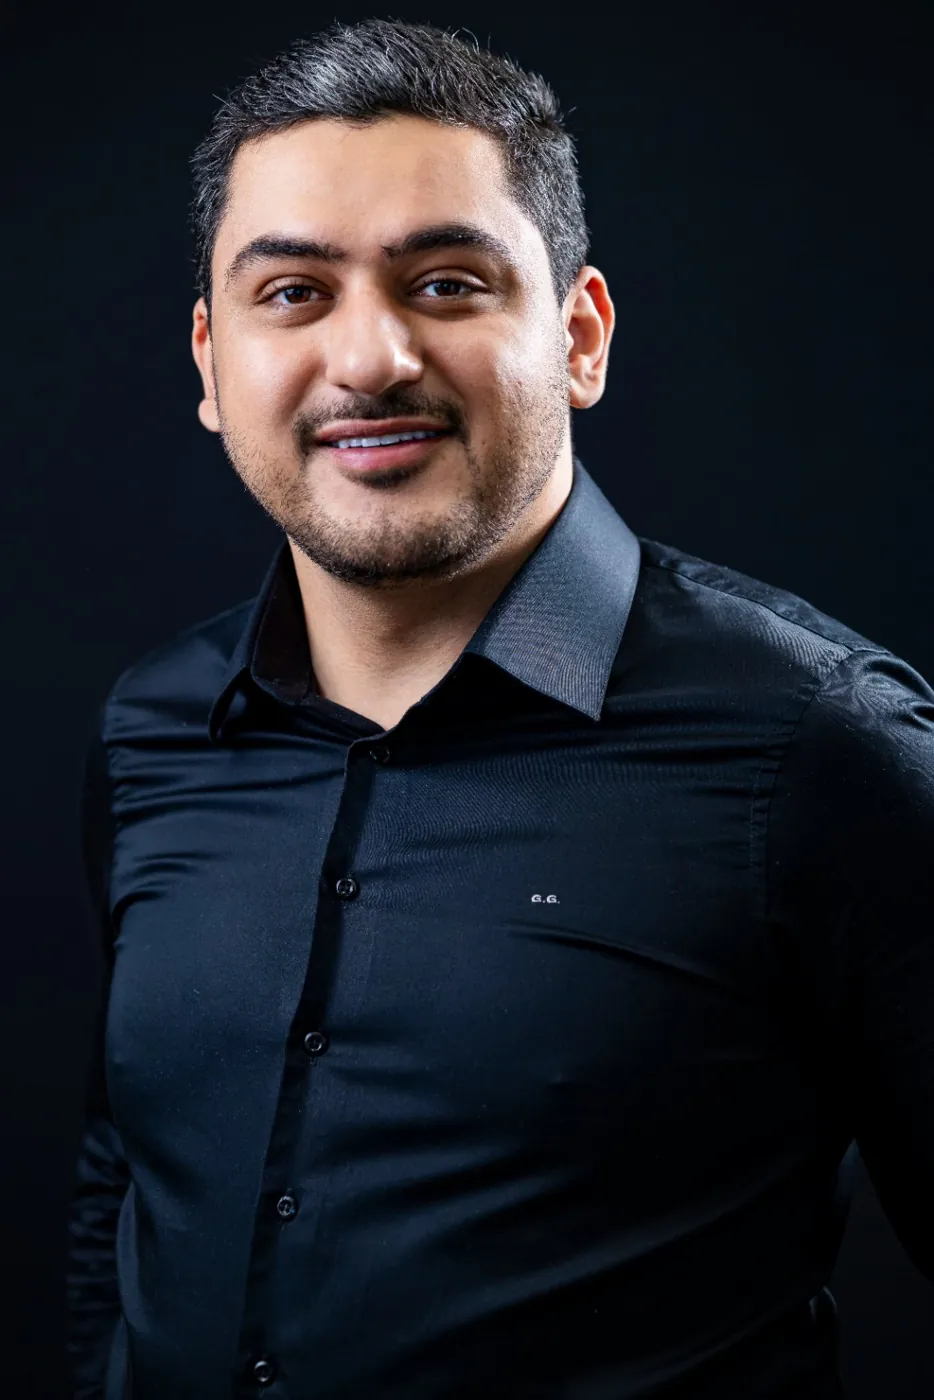
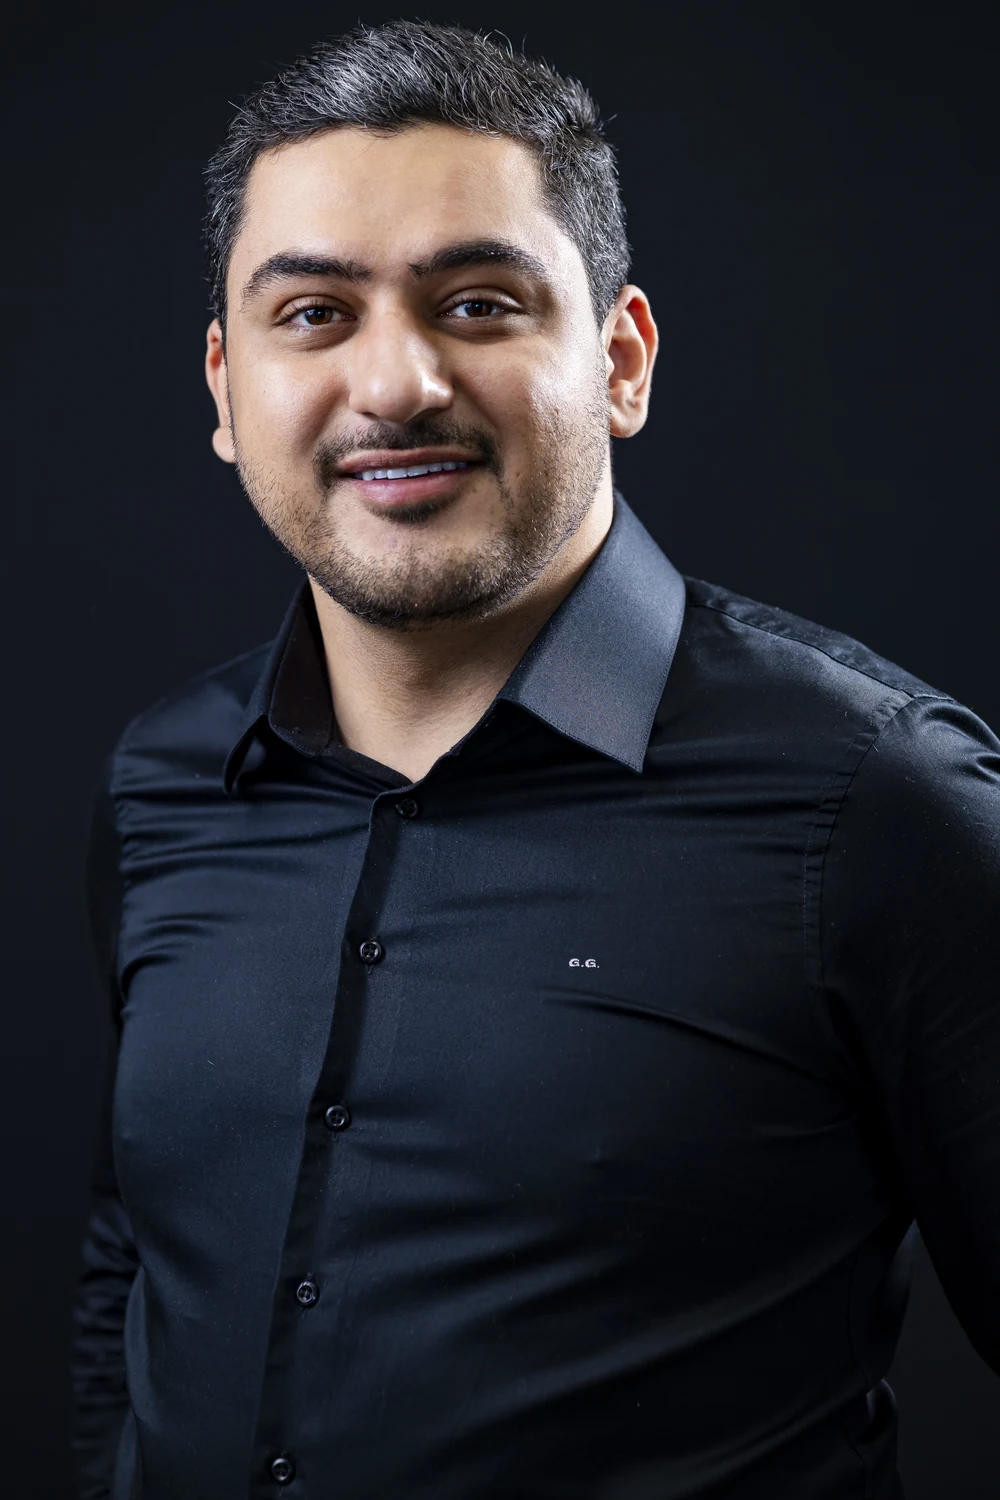
fix: fotos do site a partir dos originais do ensaio (capa em 900/1600 px)

diff --git a/index.html b/index.html
@@ -269,7 +269,7 @@ a.canal:hover{border-color:var(--cobre-claro);background:rgba(242,230,216,.05)}
 
 <section class="hero escuro">
   <div class="hero-foto">
-    <img src="img/PJF_2780.webp" alt="Dr. Gabriel Germano, endodontista, de braços cruzados" width="1067" height="1600" fetchpriority="high">
+    <img src="img/PJF_2780-1600.webp" srcset="img/PJF_2780-900.webp 900w, img/PJF_2780-1600.webp 1600w" sizes="(max-width: 860px) 100vw, 54vw" alt="Dr. Gabriel Germano, endodontista, de braços cruzados" width="1600" height="2400" fetchpriority="high">
   </div>
   <div class="wrap hero-texto">
     <p class="eyebrow">Endodelivery · Para clínicas parceiras</p>
@@ -424,7 +424,7 @@ a.canal:hover{border-color:var(--cobre-claro);background:rgba(242,230,216,.05)}
 
 <section class="sec bege" id="parceria">
   <div class="wrap duas">
-    <div class="foto-retrato rev"><img src="img/PJF_2485.webp" alt="Dr. Gabriel Germano sorrindo, sentado à mesa do consultório" loading="lazy" width="934" height="1400"></div>
+    <div class="foto-retrato rev"><img src="img/PJF_2485.webp" alt="Dr. Gabriel Germano sorrindo, sentado à mesa do consultório" loading="lazy" width="1000" height="1500"></div>
     <div class="rev">
       <p class="eyebrow">Como funciona a parceria</p>
       <h2>Simples, transparente <em>e integrada à sua rotina.</em></h2>
@@ -490,7 +490,7 @@ a.canal:hover{border-color:var(--cobre-claro);background:rgba(242,230,216,.05)}
 
 <section class="sec" id="sobre">
   <div class="wrap">
-    <div class="sobre-foto rev"><img src="img/PJF_2557.webp" alt="Dr. Gabriel Germano no consultório, ao lado do notebook" loading="lazy" width="1400" height="934"></div>
+    <div class="sobre-foto rev"><img src="img/PJF_2557.webp" alt="Dr. Gabriel Germano no consultório, ao lado do notebook" loading="lazy" width="1800" height="1200"></div>
     <div class="duas">
       <div class="rev">
         <p class="eyebrow">Sobre mim</p>
@@ -524,7 +524,7 @@ a.canal:hover{border-color:var(--cobre-claro);background:rgba(242,230,216,.05)}
         <div class="canal largo"><small>Endereço</small><span>Rua José Leonel Vilela, 67 – Centro, Alpinópolis/MG</span></div>
       </div>
     </div>
-    <div class="contato-foto rev"><img src="img/PJF_2751.webp" alt="Retrato do Dr. Gabriel Germano sorrindo" loading="lazy" width="934" height="1400"></div>
+    <div class="contato-foto rev"><img src="img/PJF_2751.webp" alt="Retrato do Dr. Gabriel Germano sorrindo" loading="lazy" width="1000" height="1500"></div>
   </div>
 </section>
 
